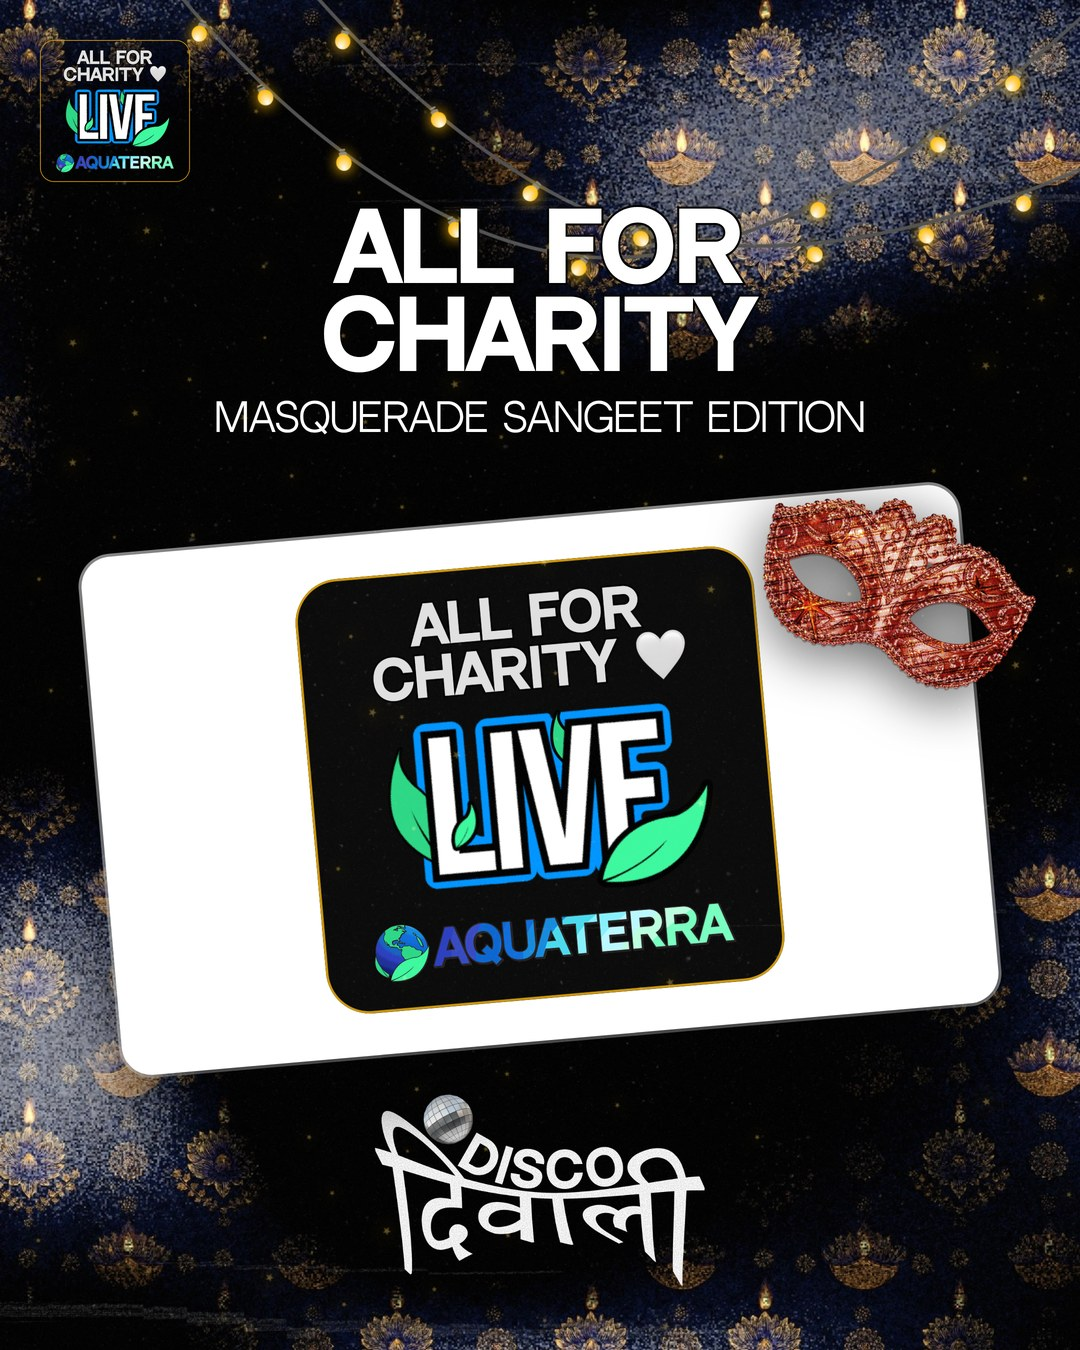
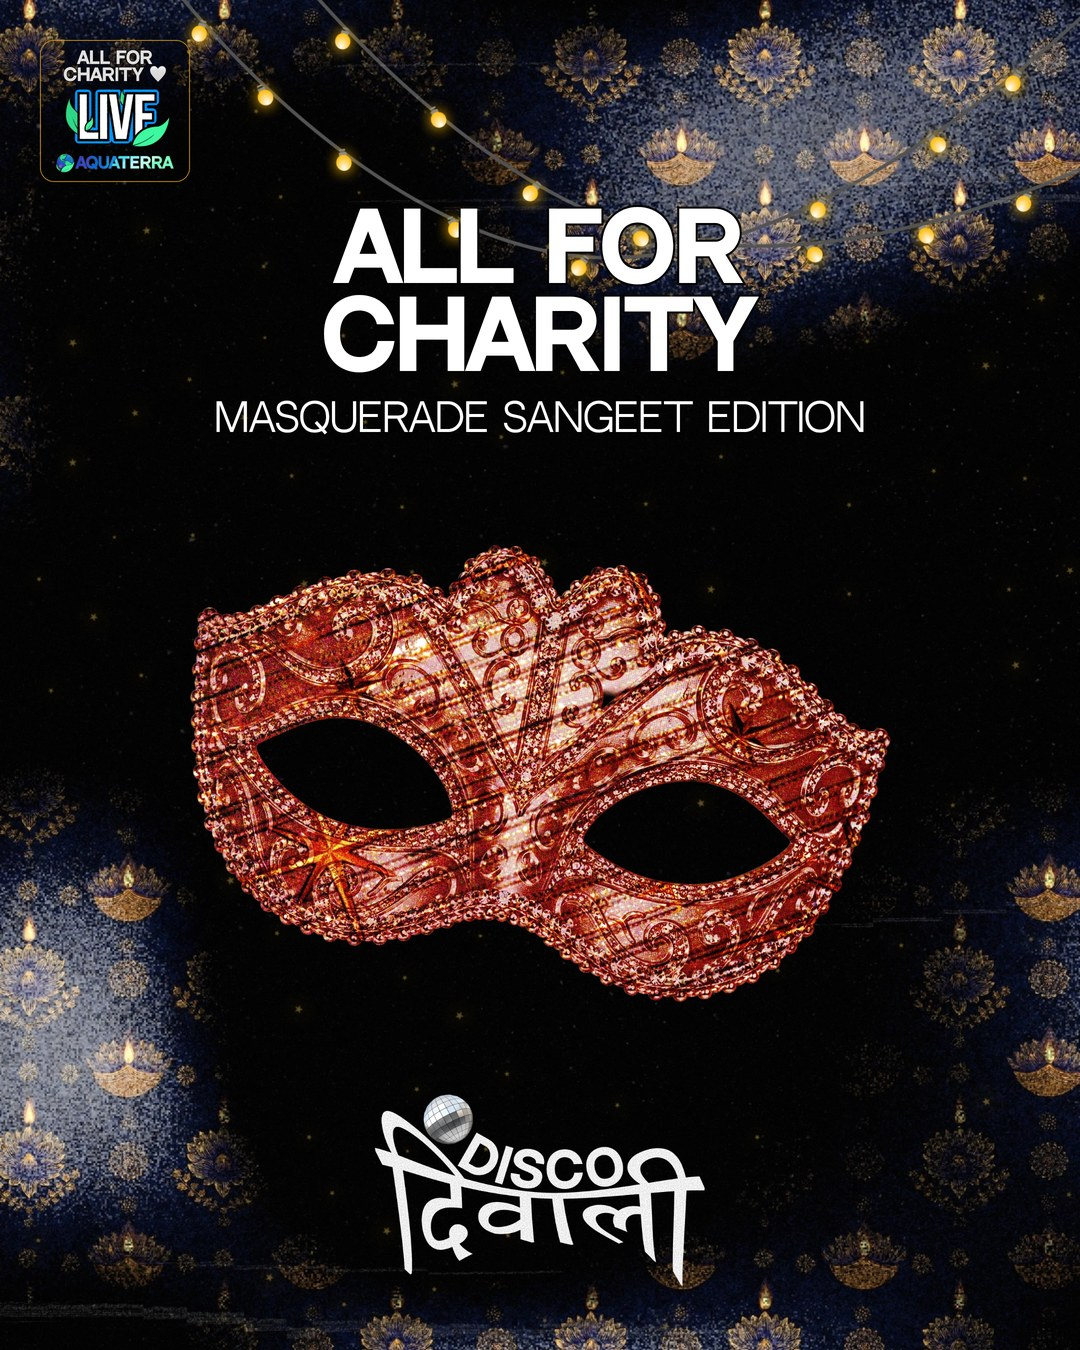
Disco Diwali: ALL FOR CHARITY poster without a card, mask as the hero; cover refreshed
Claude-Session: https://claude.ai/code/session_01SvqxkoTEENgXPyjFifmnqB

Changed region(s): [[0.0611, 0.3422, 0.9778, 0.84], [0.3972, 0.8089, 0.4278, 0.84]]

diff --git a/scratchpad/dd_charity.py b/scratchpad/dd_charity.py
@@ -1,10 +1,8 @@
-"""DISCO DIWALI ALL FOR CHARITY poster, feed (1080x1350) and story (1080x1920), rebuilt to MATCH the carousel's date and location posters.
+"""DISCO DIWALI ALL FOR CHARITY poster, feed (1080x1350) and story (1080x1920), matching the carousel's date and location posters WITHOUT their cards.
 
-Shared skeleton (same numbers as scratchpad/dd_date_reveal.py and dd_location_reveal.py): diya ground with string lights, a small LIVE badge top left, a headline
-block, a big white rounded card tilted -5 degrees with the copper mask lying across its top-right corner, the DISCO DIWALI lockup (with its ball) as a footer mark,
-no pill, no link. Here the headline is ALL FOR CHARITY, the line under it is the edition, and the card holds the LIVE badge art (ALL FOR CHARITY / LIVE / AQUATERRA)
-large, as the visual. Facts: only "All for charity" (the badge) and "Masquerade Sangeet Edition". No date, venue, price or figure (the cover and slides own the rest).
-Run: PYTHONIOENCODING=utf-8 python scratchpad/dd_charity.py"""
+Same skeleton minus the card (user, 2026-10-19: "no cards in this slide"): diya ground with string lights, a small LIVE badge top left, the ALL FOR CHARITY headline with the
+edition line under it, the copper mask large and centred as the hero, the DISCO DIWALI lockup (with its ball) as a footer mark, no pill, no link.
+Facts: only "All for charity" and "Masquerade Sangeet Edition". Run: PYTHONIOENCODING=utf-8 python scratchpad/dd_charity.py"""
 import asyncio, importlib.util, math, os, sys
 ROOT = os.path.dirname(os.path.dirname(os.path.abspath(__file__)))
 sys.path.insert(0, os.path.join(ROOT, "engine"))
@@ -48,18 +46,12 @@ def poster(H):
     line("head2", "charity", hy + round(size * .96), size, 700, size)
     sy = hy + round(size * .96) * 2 + 20
     line("sub", "Masquerade Sangeet Edition", sy, 38, 400, 40)
-    # the card: white, tilted, holding the LIVE badge art large and centred
-    ctop = 800 if story else 520
-    cleft = (W - CARD_W) // 2
-    bw2 = 460; bh2 = round(bw2 * 1005 / 1061)                # the badge art is semi-transparent over black: on a white card it washes to grey, so it sits on an OPAQUE black tile
-    inner = (f'<div style="position:absolute;left:{(CARD_W - bw2) // 2}px;top:{(CARD_H - bh2) // 2}px;width:{bw2}px;height:{bh2}px;background:#0a0a0a;border-radius:44px;overflow:hidden">'
-             f'<img src="{dd.uri("live_badge.png")}" style="width:{bw2}px;display:block"></div>')
-    parts.append(f'<div data-tag="card" style="position:absolute;left:{cleft}px;top:{ctop}px;width:{CARD_W}px;height:{CARD_H}px;border-radius:30px;overflow:hidden;background:#fff;z-index:10;'
-                 f'transform:rotate({TILT}deg);box-shadow:0 36px 70px rgba(0,0,0,.6),0 0 0 3px rgba(255,255,255,.55)">{inner}</div>')
-    els.append(("card",) + rot_box(cleft + CARD_W / 2, ctop + CARD_H / 2, CARD_W, CARD_H, TILT))
-    mw = 330; mx, my = 730, ctop - 62
-    parts.append(f'<img data-tag="mask" src="{dd.uri("mask_copper.png")}" style="position:absolute;left:{mx}px;top:{my}px;width:{mw}px;z-index:12;transform:rotate(10deg);'
-                 f'filter:drop-shadow(0 12px 26px rgba(0,0,0,.65))">'); els.append(("mask", mx + 30, my + 40, 276, 196))
+    # no card (user, 2026-10-19: "no cards in this slide"): the copper mask is the hero, large and centred under the headline
+    ctop = 850 if story else 545                              # top of the mask's visible box
+    k = .498                                                  # visible width 1405k = 700, visible height 923k = 460 (asset 157..1562 x 211..1134)
+    mw = round(1680 * k); mx = (W - round(1405 * k)) // 2 - round(157 * k); my = ctop - round(211 * k)
+    parts.append(f'<img data-tag="mask" src="{dd.uri("mask_copper.png")}" style="position:absolute;left:{mx}px;top:{my}px;width:{mw}px;z-index:12;'
+                 f'filter:drop-shadow(0 14px 32px rgba(0,0,0,.7))">'); els.append(("mask", (W - round(1405 * k)) // 2, ctop, round(1405 * k), round(923 * k)))
     vw = 400 if story else 330
     t = vw / 1717; vh = round(991 * t); vx = (W - vw) // 2
     vy = 1420 if story else H - 64 - vh
@@ -74,7 +66,7 @@ async def main():
         for name, H in (("feed", 1350), ("story", 1920)):
             inner, els, bottom = poster(H)
             print(f"[{name}] last element ends at y={bottom} of {H}")
-            await B.render(B.page(W, H, "#000", inner, grain=False), os.path.join(OUT, f"{name}.png"), W, H, elements=els, containers=(), bleed_tags=("plate",), crop_tags=("plate", "card"),
-                           page_bg="#000", collision_ignore=[("mask", "card"), ("card", "badge")])
+            await B.render(B.page(W, H, "#000", inner, grain=False), os.path.join(OUT, f"{name}.png"), W, H, elements=els, containers=(), bleed_tags=("plate",), crop_tags=("plate",),
+                           page_bg="#000", collision_ignore=[])
     print("charity done ->", OUT)
 asyncio.run(main())

diff --git a/brain/DISCO_DIWALI.md b/brain/DISCO_DIWALI.md
@@ -94,7 +94,7 @@ Feed 1080x1350 and story 1080x1920 from a user inspo (a headline over a photo wi
 Cover for the three-slide set (ALL FOR CHARITY, date reveal, location reveal), v4. History: v1 calm lockup (rejected, "make it fun"), v2 IT'S HAPPENING. over the three real slides fanned like cards (LIKED, but it leaked the date and the location), v3 the cards removed (rejected, "i liked the one before"). v4 keeps v2's composition and hides the secrets: the ALL FOR CHARITY card is shown as is, the date card and the location card are BLURRED (22px, darkened, scaled up so no edge text survives) behind a big "?". Checked by eye at full size: no date, map or text survives. Headline IT'S HAPPENING. is the user's brief expressed as copy, a claim of nothing but the event existing. Lessons: a teaser must be checked for what it LEAKS, not just what it shows; when a user rejects a change they asked for, the thing they liked was the composition, so keep it and fix only the offending element.
 
 ### ALL FOR CHARITY poster, matched to the carousel (2026-10-19) — `scratchpad/dd_charity.py`, JPEGs in `sample_outputs/disco_diwali_charity/`
-Feed and story. The earlier charity slide was a block inside `dd_carousel_captcha.py` (a different carousel) and did not match the date and location posters, so it was rebuilt on their skeleton: small LIVE badge top left, a headline (ALL FOR CHARITY, edition line under it), the big white card tilted -5 degrees with the copper mask across its top-right corner, the lockup as a footer mark, no pill, no link. The card holds the LIVE badge art large. Lesson: `live_badge.png` is SEMI-TRANSPARENT over black, so on a white card it washes to grey and its white "ALL FOR CHARITY" text nearly vanishes; it must sit on an opaque black tile. The cover's first card reads this file. Only supplied facts: ALL FOR CHARITY and the edition.
+Feed and story. The earlier charity slide was a block inside `dd_carousel_captcha.py` (a different carousel) and did not match the date and location posters, so it was rebuilt on their skeleton: small LIVE badge top left, ALL FOR CHARITY headline with the edition line under it, the lockup (with its ball) as a footer mark, no pill, no link. **No card on this slide (user, 2026-10-19)**: a first version put the LIVE badge on a white card with the mask on its corner; the user asked for no cards, so the copper mask is now the hero, large and centred (visible 700x460). Lesson: `live_badge.png` is SEMI-TRANSPARENT over black, so on a white card it washes to grey and its white text nearly vanishes (it needs an opaque black tile); at its native small size on the diya ground it is fine, which is how every other poster uses it. The cover's first card reads this file. Only supplied facts: ALL FOR CHARITY and the edition.
 
 ## 6. Conflicts with CLAUDE.md and how they were resolved (precedence ladder, sec 2)
 - Ground, palette and fonts differ from the AQ house style. Resolved as a format exception, like TerraThon. The format wins inside `discodiwali.py` only.
